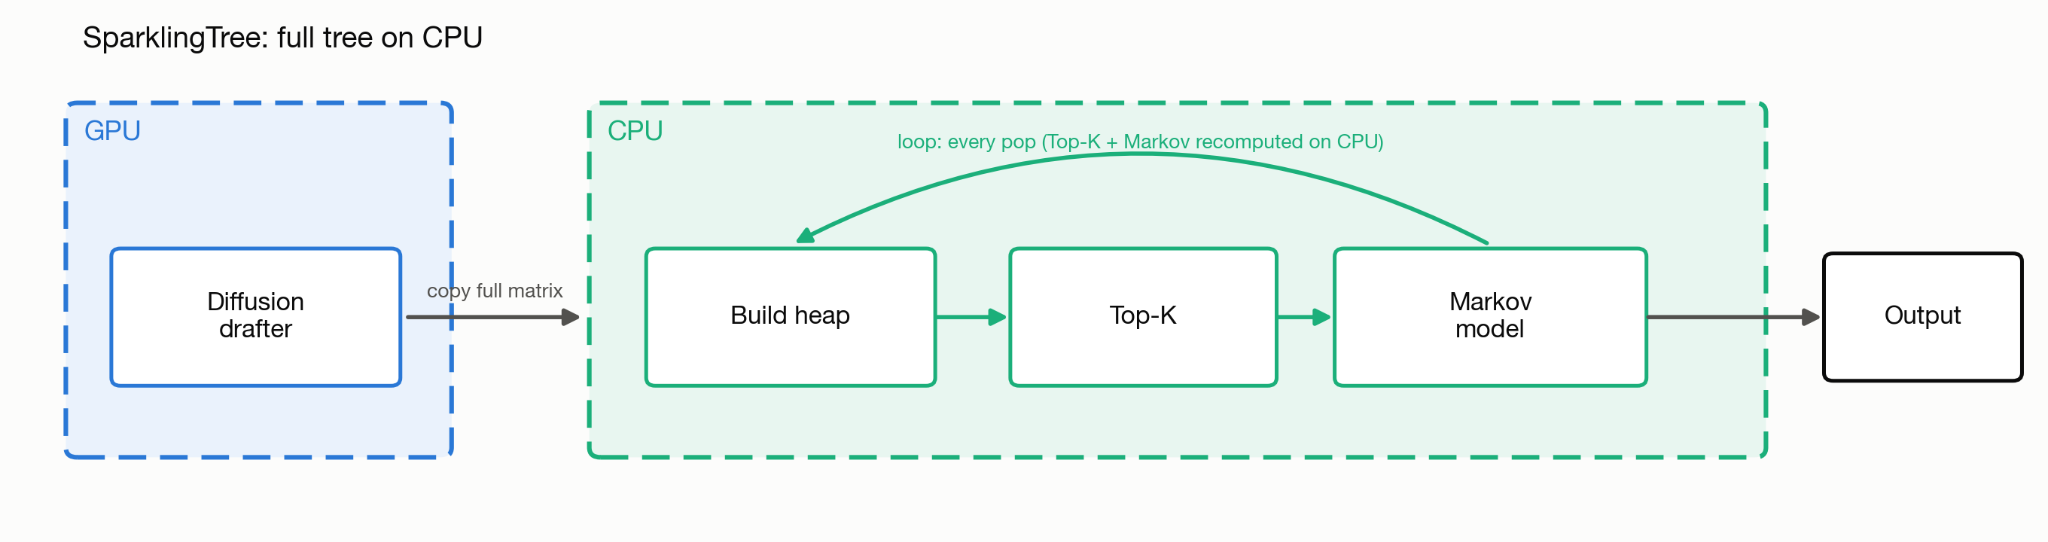
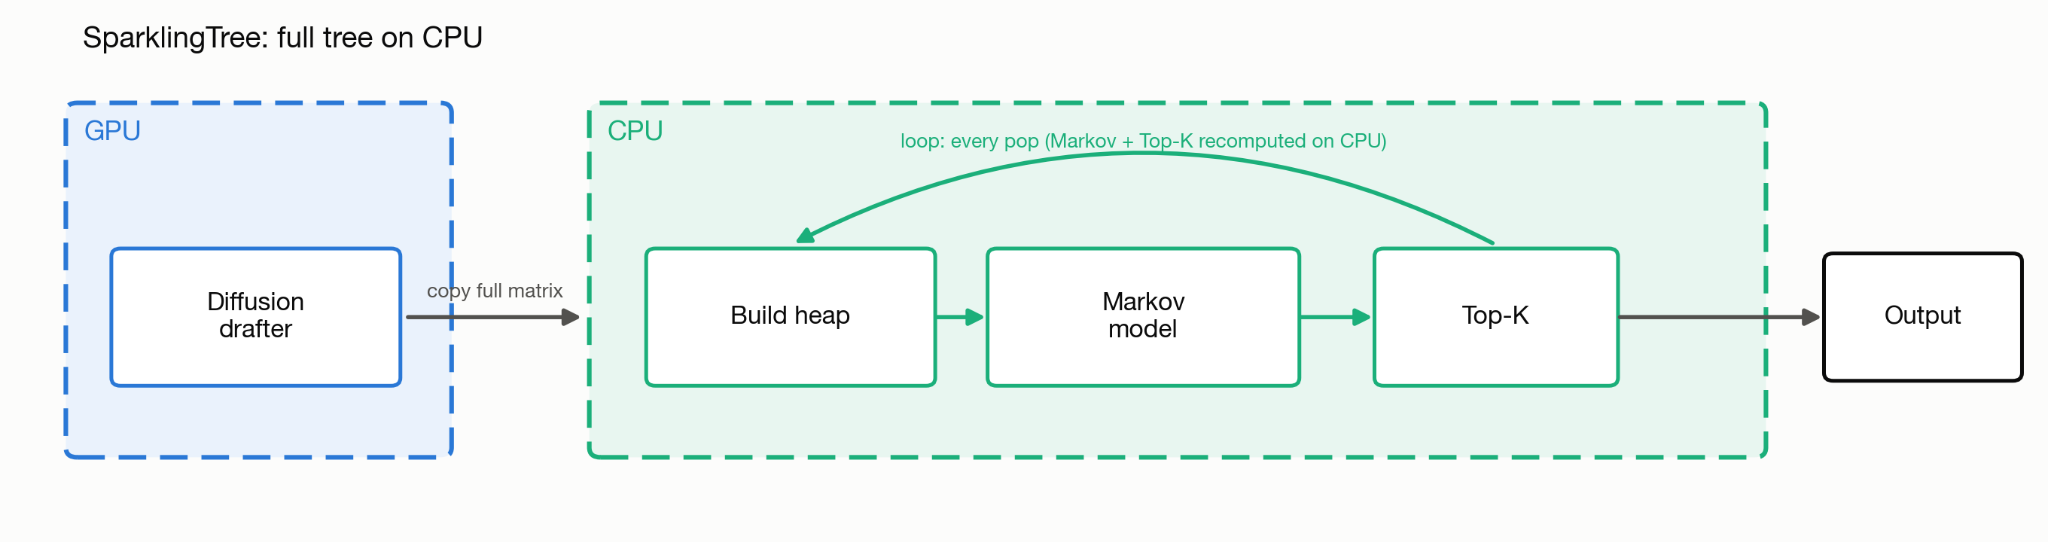
Refresh three candidate-construction diagrams; update culprits framing
Claude-Session: https://claude.ai/code/session_01Ev2qgrrBSa65wfv6bmJC1b

diff --git a/content/blogs.js b/content/blogs.js
@@ -2240,9 +2240,9 @@ Let's recall how the tree was constructed under DFlash, DDTree, DSpark, and now 
 
 ### Solving the candidate tree construction
 
-Two key culprits are this:
+Two key culprits are hitting us at the same time:
 
-1. We can't move back and forth between GPU and CPU.
+1. Transfer cost between CPU and GPU — we can't move back and forth between the two.
 2. We need to precompute as much as possible.
 
 > **[Draft section — in progress]** The fixes below are still being written up.
